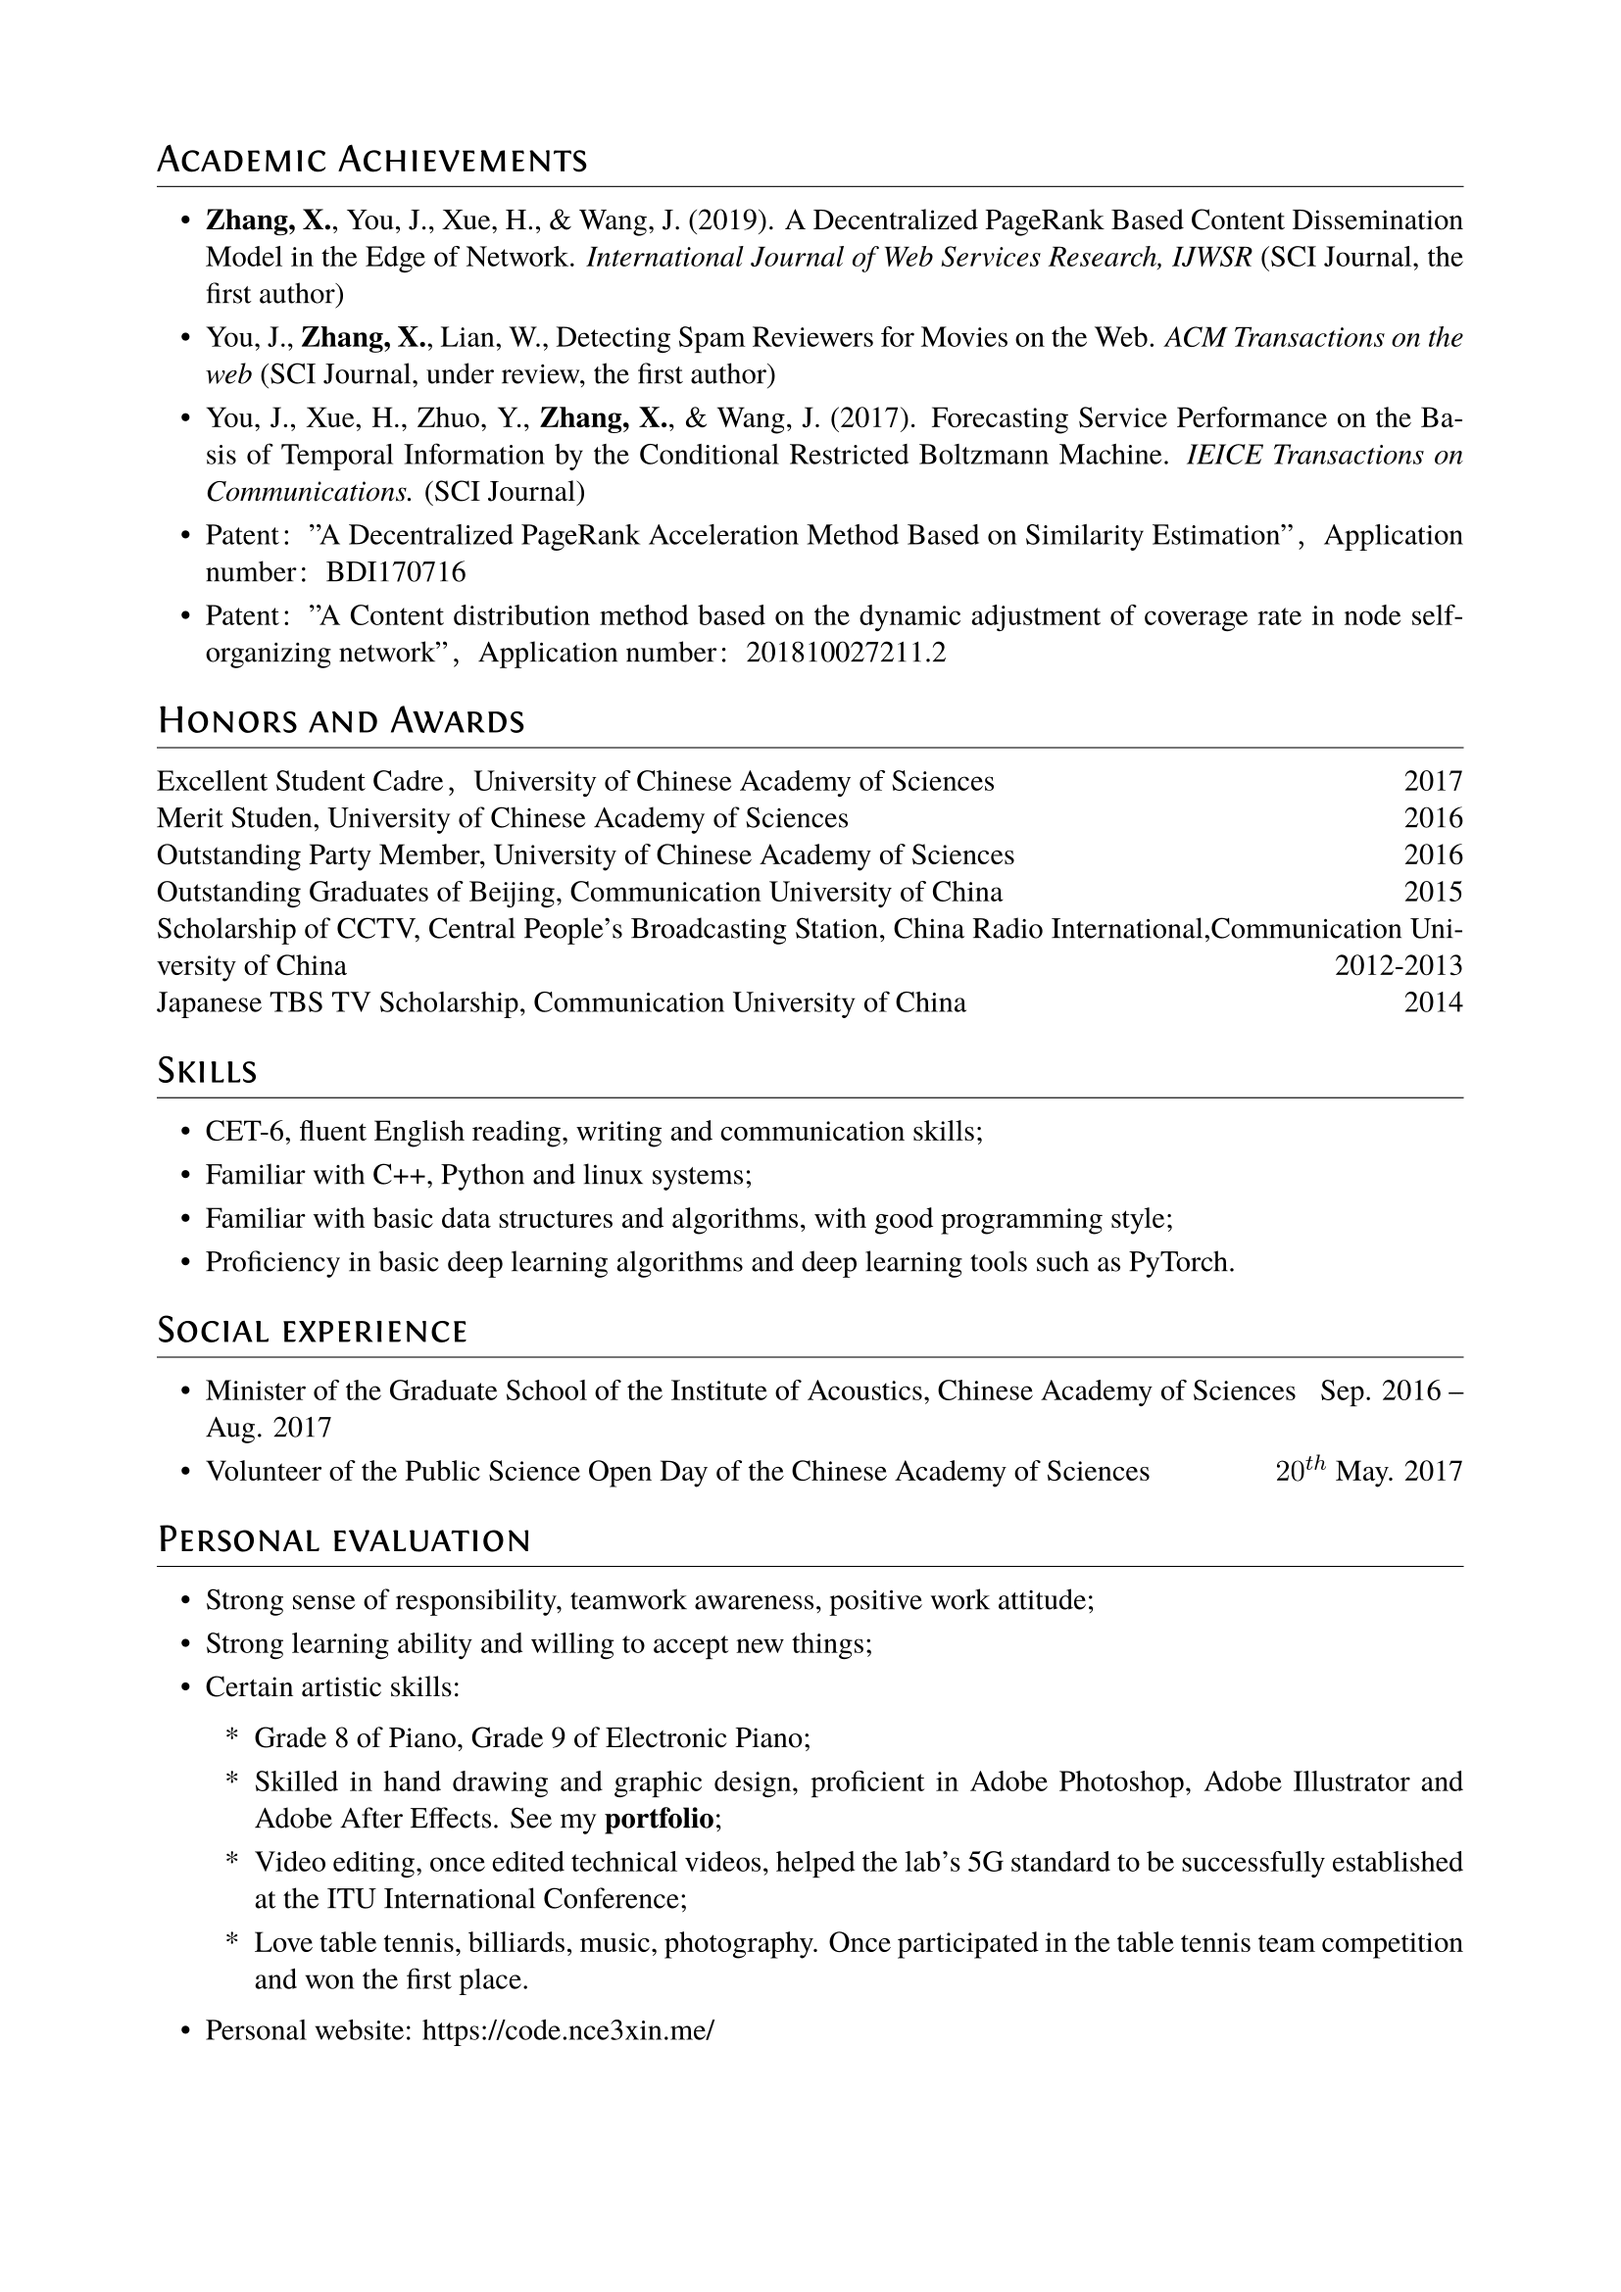
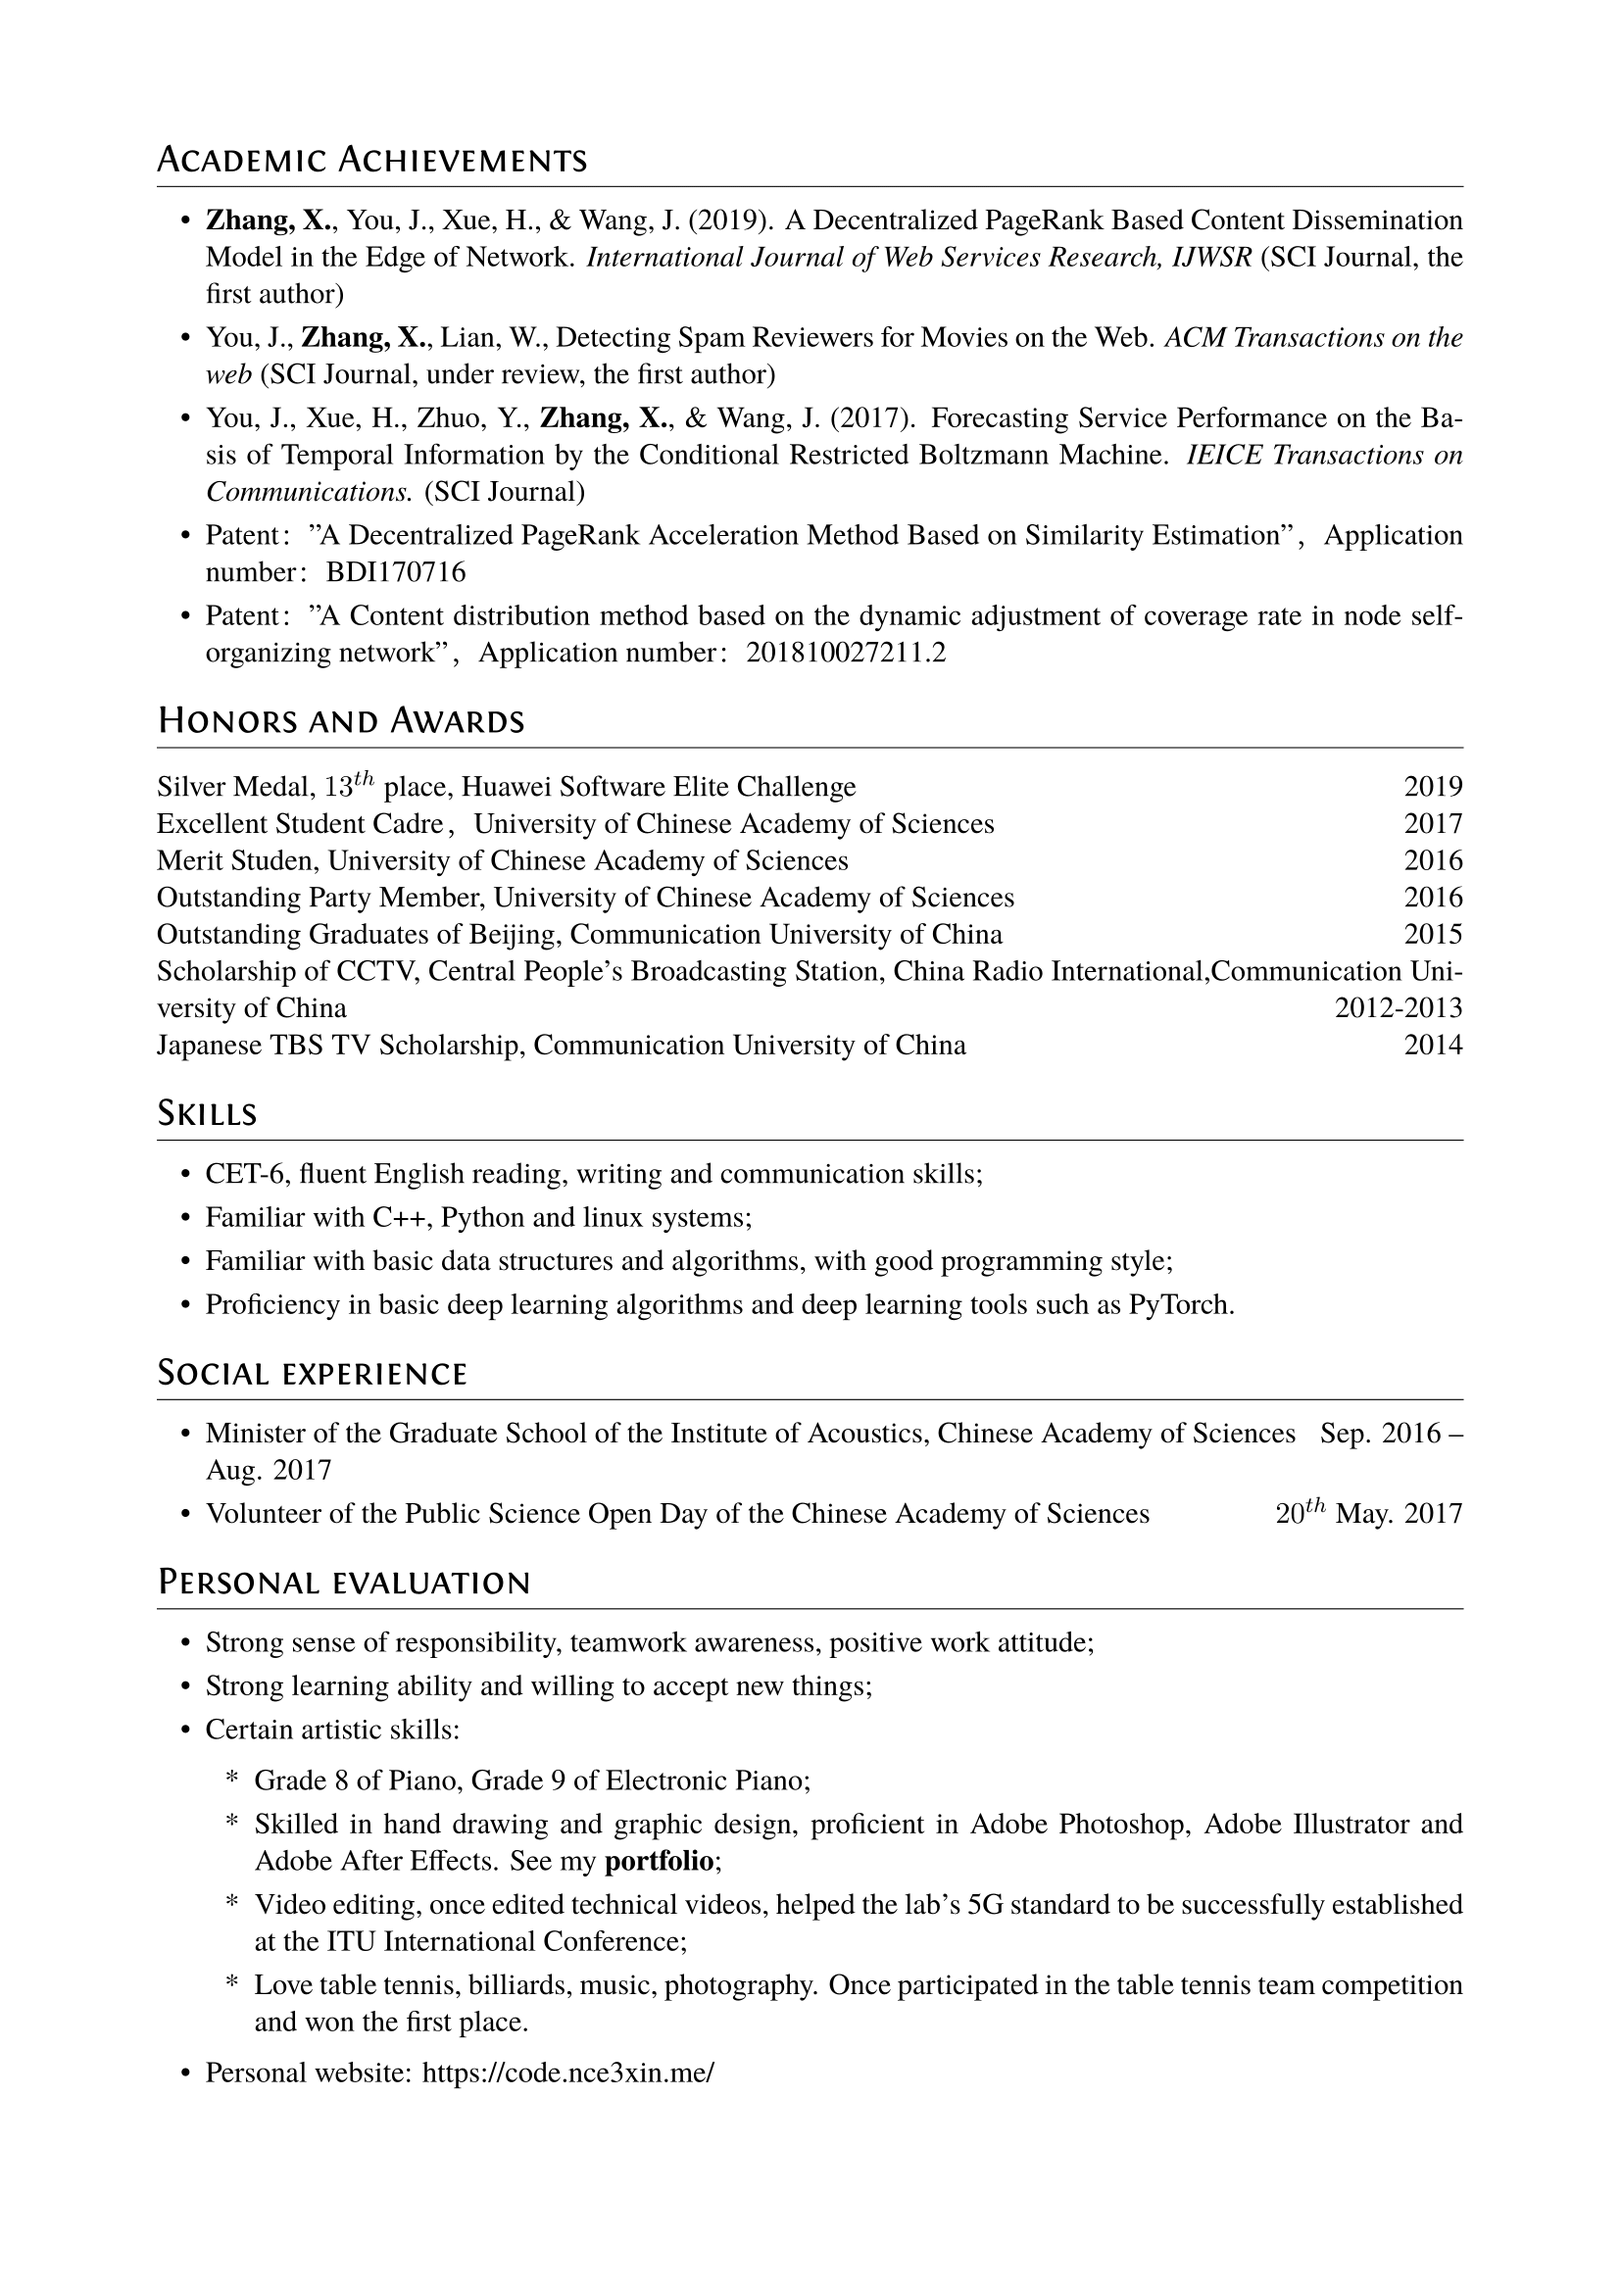
HUAWEI award

Changed region(s): [[0.0925, 0.3121, 0.8942, 0.9051]]

diff --git a/resume.tex b/resume.tex
@@ -80,6 +80,7 @@ GPA: 3.81 / 4 \quad Ranking：Top 2\% / 103 \quad Recommended Postgraduate
 \end{itemize}
 
 \section{Honors and Awards}
+\datedline{Silver Medal, $13^{th}$ place, Huawei Software Elite Challenge}{2019}
 \datedline{Excellent Student Cadre，University of Chinese Academy of Sciences}{2017}
 \datedline{Merit Studen, University of Chinese Academy of Sciences}{2016}
 \datedline{Outstanding Party Member, University of Chinese Academy of Sciences}{2016}
